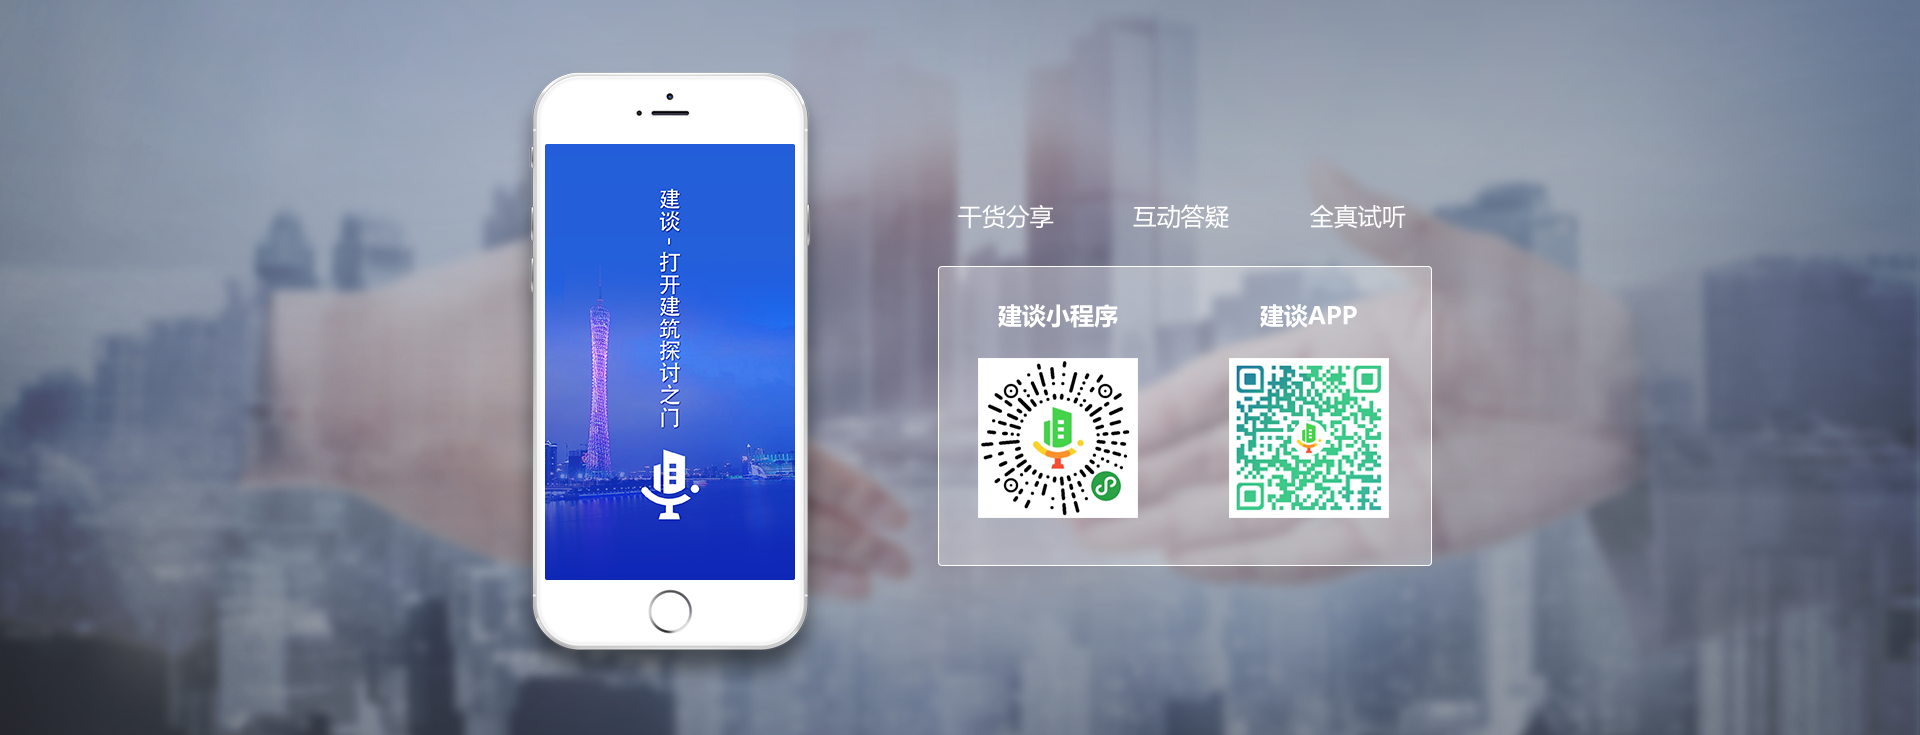
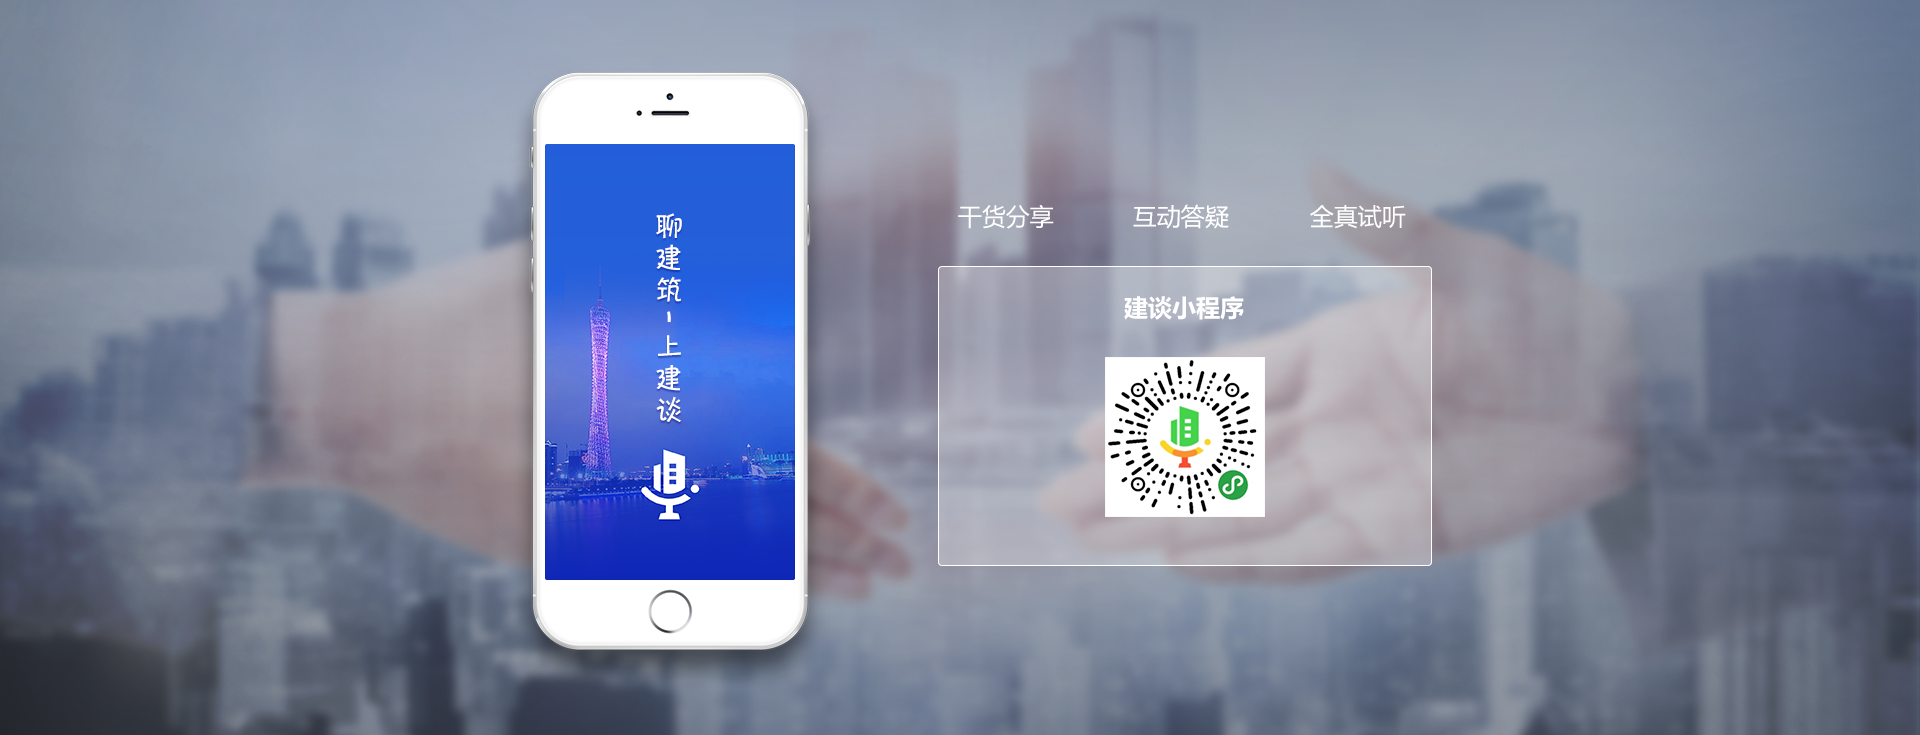
完成

Changed region(s): [[0.5, 0.4789, 0.75, 0.7184], [0.3438, 0.2395, 0.375, 0.5687], [0.5, 0.3891, 0.7188, 0.449]]

diff --git a/src/components/pages/authorServices.vue b/src/components/pages/authorServices.vue
@@ -3,30 +3,30 @@
     <div class="loginBox">
       <div class="loginTitle">账号登录</div>
       <!--<el-form class="form" :rules="rules" :model="userInfo" ref="ruleForm">-->
-        <!--<div class="formItem">-->
-          <!--<img src="../../../static/img/user.png" alt="">-->
-          <!--<el-input v-model="userInfo.user" prop="user" placeholder="请输入您的用户名"/>-->
-        <!--</div>-->
-        <!--<div class="formItem">-->
-          <!--<img src="../../../static/img/password.png" alt="">-->
-          <!--<el-input v-model="userInfo.password" prop="password" placeholder="请输入您的密码" type="password"/>-->
-        <!--</div>-->
-        <!--<div class="rememberPassword">-->
-          <!--<el-checkbox></el-checkbox>-->
-          <!--<span>记住密码</span>-->
-        <!--</div>-->
+      <!--<div class="formItem">-->
+      <!--<img src="../../../static/img/user.png" alt="">-->
+      <!--<el-input v-model="userInfo.user" prop="user" placeholder="请输入您的用户名"/>-->
+      <!--</div>-->
+      <!--<div class="formItem">-->
+      <!--<img src="../../../static/img/password.png" alt="">-->
+      <!--<el-input v-model="userInfo.password" prop="password" placeholder="请输入您的密码" type="password"/>-->
+      <!--</div>-->
+      <!--<div class="rememberPassword">-->
+      <!--<el-checkbox></el-checkbox>-->
+      <!--<span>记住密码</span>-->
+      <!--</div>-->
       <!--</el-form>-->
-      <el-form :model="userInfo" :rules="rules" ref="ruleForm"  class="form">
-        <el-form-item  class="formItem" prop="user">
-          <img src="../../../static/img/user.png" >
-          <el-input v-model="userInfo.name" placeholder="请输入您的用户名"></el-input>
+      <el-form :model="userInfo" :rules="rules" ref="ruleForm" class="form">
+        <el-form-item class="formItem" prop="user">
+          <img src="../../../static/img/user.png">
+          <el-input v-model="userInfo.user" placeholder="请输入您的用户名"></el-input>
         </el-form-item>
-        <el-form-item  class="formItem" prop="password">
-          <img src="../../../static/img/password.png" >
+        <el-form-item class="formItem" prop="password">
+          <img src="../../../static/img/password.png">
           <el-input v-model="userInfo.password" placeholder="请输入您的密码" type="password"></el-input>
         </el-form-item>
 
-        <el-form-item >
+        <el-form-item>
           <el-checkbox-group class="rememberPassword" v-model="userInfo.remember">
             <el-checkbox label="记住密码" name="type"></el-checkbox>
           </el-checkbox-group>
@@ -38,7 +38,7 @@
         </el-form-item>
       </el-form>
       <!--<div class="submit" @click="submitForm">-->
-        <!--登录-->
+      <!--登录-->
       <!--</div>-->
     </div>
   </div>
@@ -47,41 +47,34 @@
 <script>
   export default {
     name: "authorServices",
-    data(){
-      return{
-        userInfo:{
-          user:'',
-          password:'',
-          remember:null,
+    data() {
+      return {
+        userInfo: {
+          user: '',
+          password: '',
+          remember: null,
         },
 
-        // rules:{
-        //   user:[
-        //     {required:true, message:'用户名不能为空',tigger:'blur'}
-        //   ],
-        //   password:[
-        //     {required:true, message:'密码不能为空',tigger:'blur'}
-        //   ]
-        // }
         rules: {
           user: [
-            { required: true, message: '用户名不能为空', trigger: 'blur' },
+            {required: true, message: '用户名不能为空', trigger: 'blur'},
           ],
           password: [
-            { required: true, message: '密码不能为空', trigger: 'blur' },
-          ]
+            {required: true, message: '密码不能为空', trigger: 'blur'},
+          ],
         }
       }
     },
-    methods:{
-      submitForm(){
-        if(this.user == ''){
+    methods: {
+      submitForm() {
+        if (this.userInfo.user == '') {
           this.openError('用户名不能为空')
         }
-        if(this.password == ''){
+        else if (this.userInfo.password == '') {
           this.openError('密码不能为空')
+        } else {
+          this.openError('信息错误')
         }
-        this.openError('信息错误')
       },
       openError(errMsg) {
         this.$message.error(errMsg);
@@ -91,14 +84,15 @@
 </script>
 
 <style>
-  .form .el-input__inner{
+  .form .el-input__inner {
     border-radius: 0;
     height: 32px;
     border: 1px solid #eaeaea;
     padding-left: 24px;
     font-size: 14px;
   }
-  .form .el-form-item{
+
+  .form .el-form-item {
     margin-bottom: 0;
   }
 
@@ -107,7 +101,7 @@
 <style scoped>
 
   .authorServices {
-    background-image: url("../../../static/img/authorServicesBack.png");
+    background-image: url("../../../static/img/authorServicesBack.jpg");
     width: 100%;
     height: 735px;
     position: relative;
@@ -162,23 +156,23 @@
   }
 
   /*.formItem input {*/
-    /*!*width: 100%;*!*/
-    /*height: 32px;*/
-    /*border: 1px solid #eaeaea;*/
-    /*padding-left: 24px;*/
-    /*font-size: 14px;*/
+  /*!*width: 100%;*!*/
+  /*height: 32px;*/
+  /*border: 1px solid #eaeaea;*/
+  /*padding-left: 24px;*/
+  /*font-size: 14px;*/
   /*}*/
 
-  .rememberPassword{
+  .rememberPassword {
     padding-top: 10px;
   }
 
-  .rememberPassword input{
+  .rememberPassword input {
     background-color: #fff;
     border: 1px solid #c3c3c3;
   }
 
-  .rememberPassword span{
+  .rememberPassword span {
     color: #c3c3c3;
     font-size: 14px;
   }

diff --git a/src/components/pages/industryHighers.vue b/src/components/pages/industryHighers.vue
@@ -2,8 +2,11 @@
   <div class="industryHighers">
     <img src="../../../static/img/author_banner.png" alt="">
     <img class="industryHighersImg" src="../../../static/img/author_1.png" alt="">
-    <img class="industryHighersImg" src="../../../static/img/author_2.png" alt="">
-    <img class="industryHighersImg" src="../../../static/img/author_3.png" alt="">
+    <img class="industryHighersImg" src="../../../static/img/author_malin.jpg" alt="">
+    <img class="industryHighersImg" src="../../../static/img/author_daijian.jpg" alt="">
+    <img class="industryHighersImg" src="../../../static/img/author_litong.jpg" alt="">
+    <img class="industryHighersImg" src="../../../static/img/author_puxiaoqiang.jpg" alt="">
+    <img class="industryHighersImg" src="../../../static/img/author_longrui.jpg" alt="">
   </div>
 </template>
 

diff --git a/index.html b/index.html
@@ -3,7 +3,7 @@
   <head>
     <meta charset="utf-8">
     <!--<meta name="viewport" content="width=device-width,initial-scale=1.0">-->
-    <title>建谈-探讨极致建筑艺术</title>
+    <title>建谈 - 聊建筑，上建谈</title>
     <link rel="icon" type="image/x-icon" href="static/img/logo.ico">
     <meta name="description" content="建谈是链接建筑行业分享者与学习者，协助分享者实现知识变现的工具，旨在打造建筑行业第一内容分享平台及社交平台，为建筑从业者打开建筑知识探讨之门。" />
   </head>

diff --git a/src/components/common/footer.vue b/src/components/common/footer.vue
@@ -5,7 +5,7 @@
         <div class="footer_left">
           <div class="titleBox">
             <img src="../../../static/img/footer_logo.png" alt="">
-            <p>建筑知识就在建谈</p>
+            <p>聊建筑，上建谈</p>
           </div>
           <p class="left_text">客服电话：010-50960100</p>
           <p class="left_text">邮箱：market@51jiantan.com</p>

diff --git a/src/components/pages/index.vue b/src/components/pages/index.vue
@@ -1,7 +1,7 @@
 <template>
   <div class="index">
     <div class="index_banner">
-      <img src="../../../static/img/banner.png" alt="">
+      <img src="../../../static/img/banner.jpg" alt="">
     </div>
     <div class="index_feature">
       <img src="../../../static/img/index1.png" alt="">
